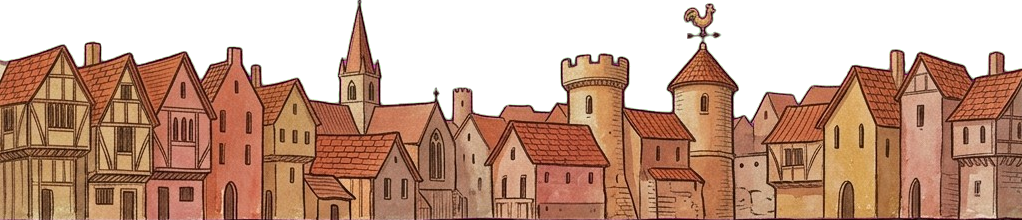
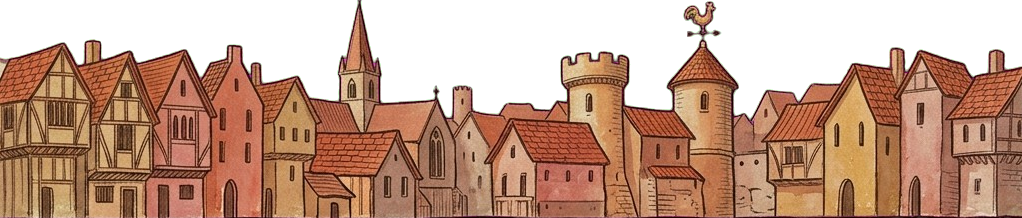
Experience: uncropped town raised higher, full-width cloister without the roof ends, taller header

diff --git a/scenes.js b/scenes.js
@@ -105,6 +105,7 @@ const SCENES = {
     name: 'Школа',
     mood: 'Тёплое абрикосовое утро, терракотовый городок, зелёный двор.',
     raw: rawFiles('experience'),
+    h: 56,
     grid: [
       ['owl-magister', 'owl-magister', 'owl-magister', 'hedgehog-pupils'],
       ['',             '',             '',             'inkpot'],
@@ -114,7 +115,11 @@ const SCENES = {
       far:    'Терракотовый городок: крыши, башенки, флюгер.',
       mid:    'Аркада школьного двора.',
       ground: 'Зелёный двор с травой и ромашками.'
-    }).map(function(l){ return l.kind === 'mid' ? Object.assign(l, { fit:true }) : l; }),
+    }).map(function(l){
+      if (l.kind === 'far') return Object.assign(l, { full:true, bottom:20 });
+      if (l.kind === 'mid') return Object.assign(l, { full:true, bottom:3 });
+      return l;
+    }),
     sprites: [
       { id:'owl-magister',    file:'experience/owl-magister.png',    frames:3, fps:3, w:160, x:62, y:12, plane:'mid', move:'bob', dur:3,
         note:'Сова-магистр за кафедрой: указка у свитка → поднята → сова моргает.' },

diff --git a/app.js b/app.js
@@ -42,8 +42,11 @@ function mkLayer(L){
   d.style.setProperty('--d', L.depth || 0);
   if (L.css) { d.classList.add('is-css'); return d; }
   if (L.fit) d.classList.add('layer--fit');
+  if (L.full) d.classList.add('layer--full');
+  if (L.bottom != null) { d.classList.add('layer--b'); d.style.setProperty('--b', L.bottom); }
   d.dataset.label = L.file + ' · ' + L.size;
   loadArt(d, L.file, function(img){
+    if (L.full) d.style.setProperty('--ar', img.naturalWidth / img.naturalHeight);
     if (!L.drift) return;
     d.dataset.drift = L.drift;
     d.style.setProperty('--drift', L.drift);
@@ -228,6 +231,7 @@ main.insertAdjacentHTML('afterend',
   '</button>');
 
 buildStage(document.querySelector('#scene .scene-stage'), SCENE_KEY);
+if (HAS_SCENES && SCENES[SCENE_KEY] && SCENES[SCENE_KEY].h) $('scene').style.setProperty('--hu', SCENES[SCENE_KEY].h);
 buildStage($('strip-stage'), 'footer');
 buildMargins(main, SCENE_KEY);
 

diff --git a/style.css b/style.css
@@ -220,6 +220,11 @@ h1,h2,h3,h4{font-synthesis:none;}
 .layer--front.has-art{background-size:100% auto; background-position:center top;}
 /* a single building, not a band: keep its proportions and centre it */
 .layer--fit.has-art{background-size:auto 100%;}
+/* chapter layers that keep their own proportions (nothing cropped), own height of the scene */
+.scene--chapter[style*="--hu"]{height:clamp(440px, calc(var(--u) * var(--hu)), 760px);}
+.scene--chapter .layer--b{bottom:calc(var(--u) * var(--b));}
+.scene--chapter .layer--full.has-art{height:auto; aspect-ratio:var(--ar, 4.6);}
+@media (max-width:700px){.scene--chapter .layer--full{left:50%; right:auto; width:max(108%, 720px); translate:-50% 0;}}
 .scene--chapter .scene-title{padding-top:58px;}
 
 /* stand-ins until the art exists: flat tempera shapes */
